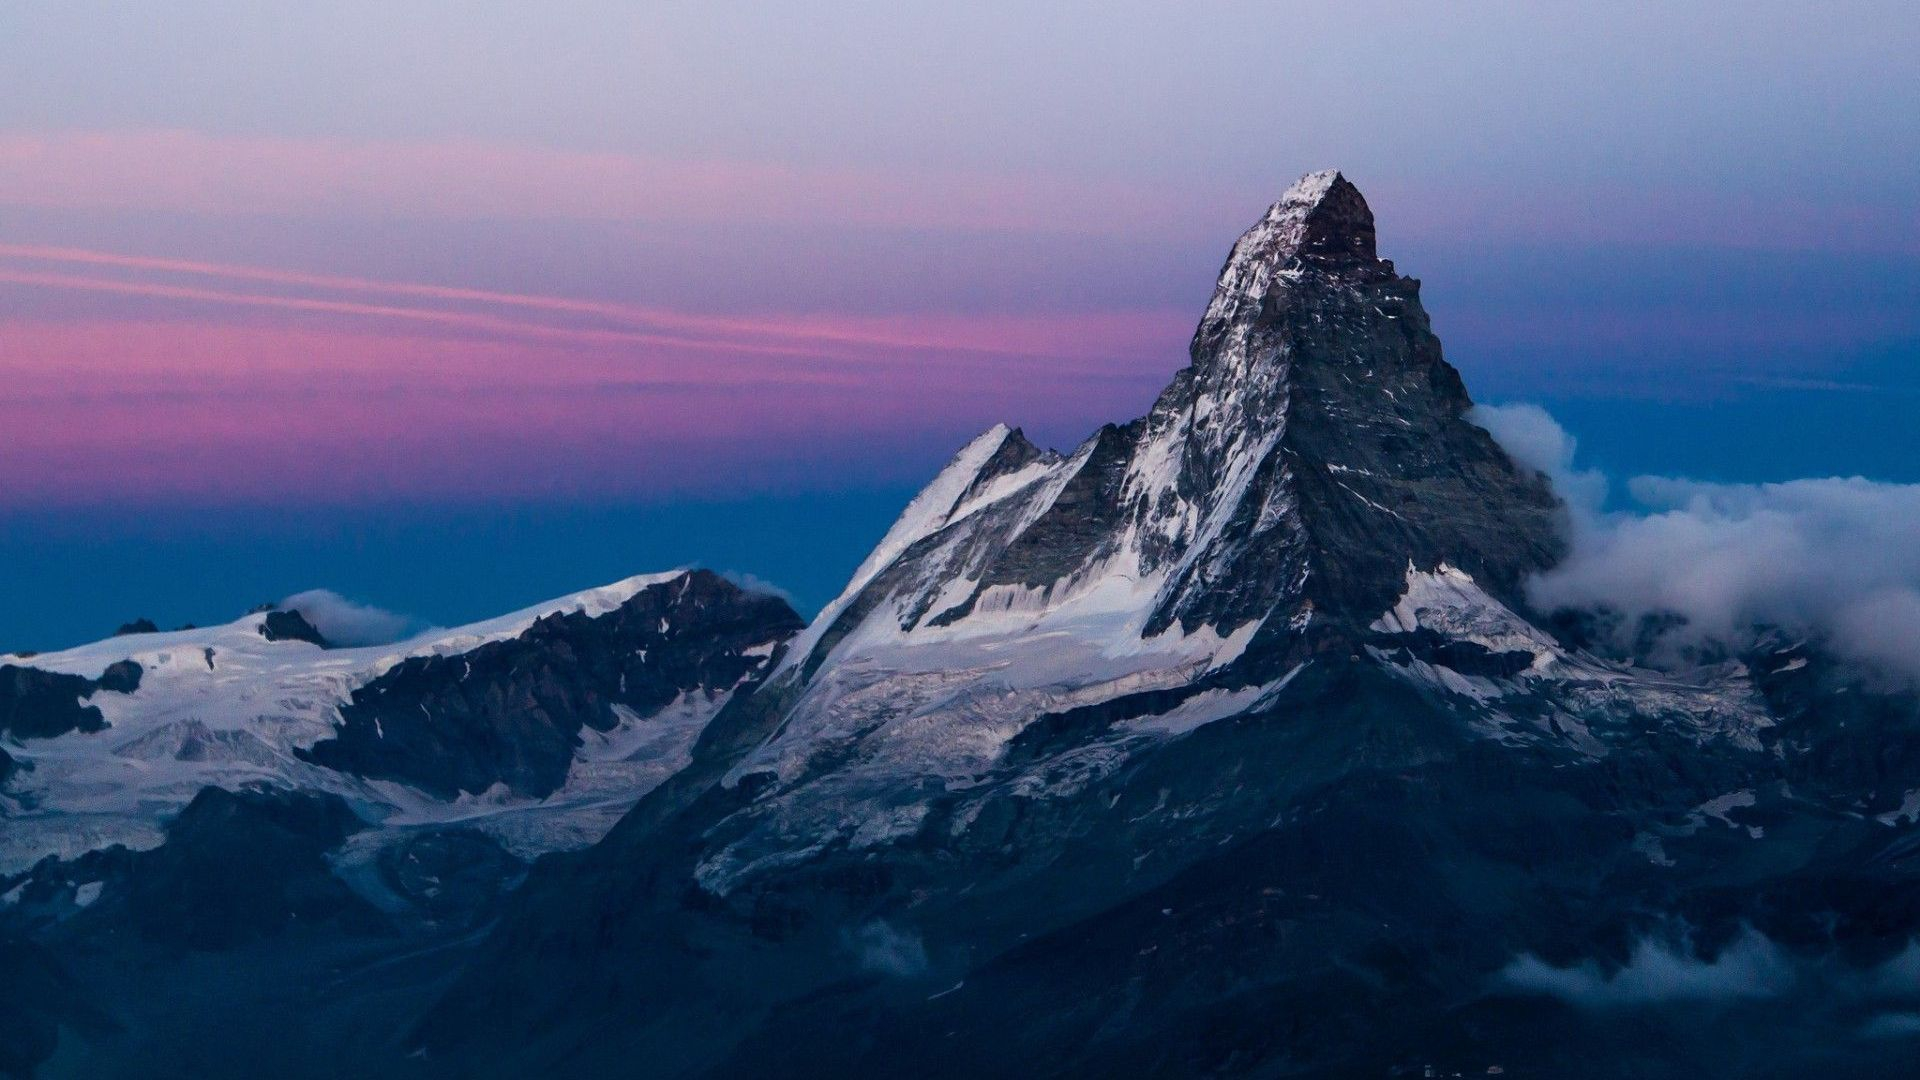
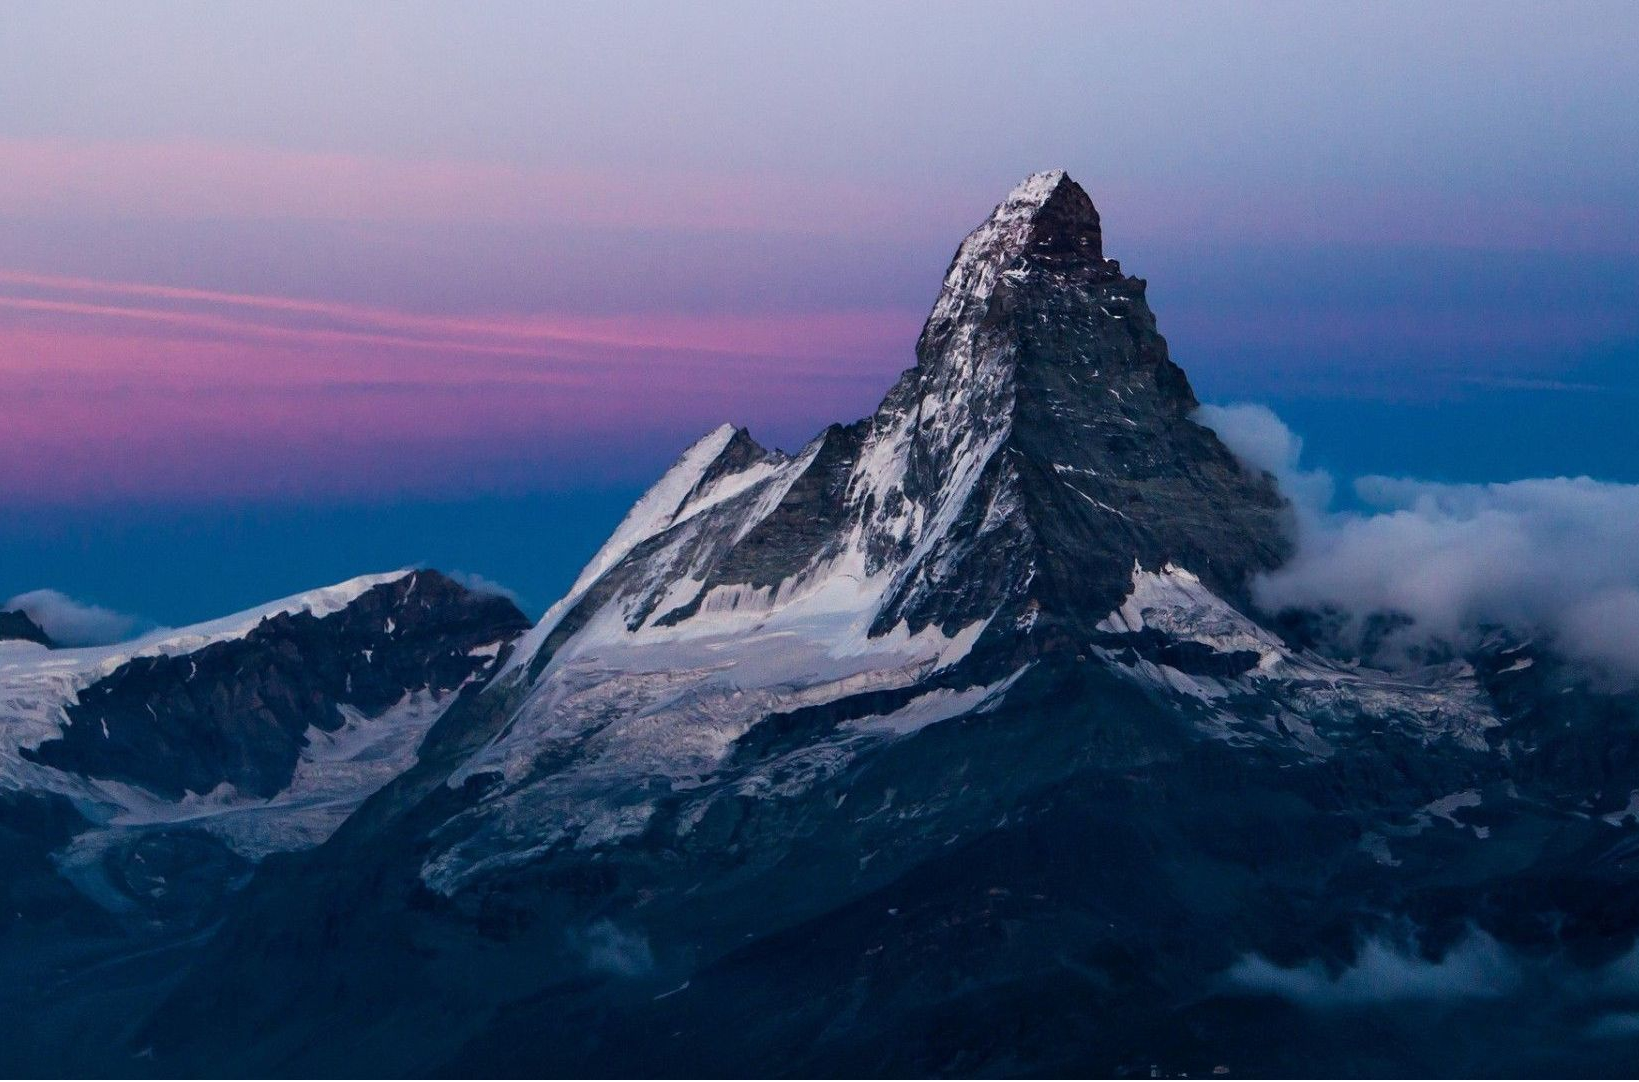
Changed background images, fixed background error.
Known error: Second background still not properly positioned for all screen sizes.

diff --git a/website.html b/website.html
@@ -8,12 +8,12 @@
   <meta name="viewport" content="width=device-width, initial-scale=1">
   <style>
 
-  body, html {
+  body {
     background-image: url("bg3.png"), url("bg2.png"), url("bg1.png");
     background-attachment: scroll, fixed, scroll;
-    background-position: center, -20px 185px, center;
+    background-position: 60%, 90% 40%, 60%;
     background-repeat: no-repeat;
-    background-size:contain;
+    background-size:cover,120%,cover;
     
   }
 
